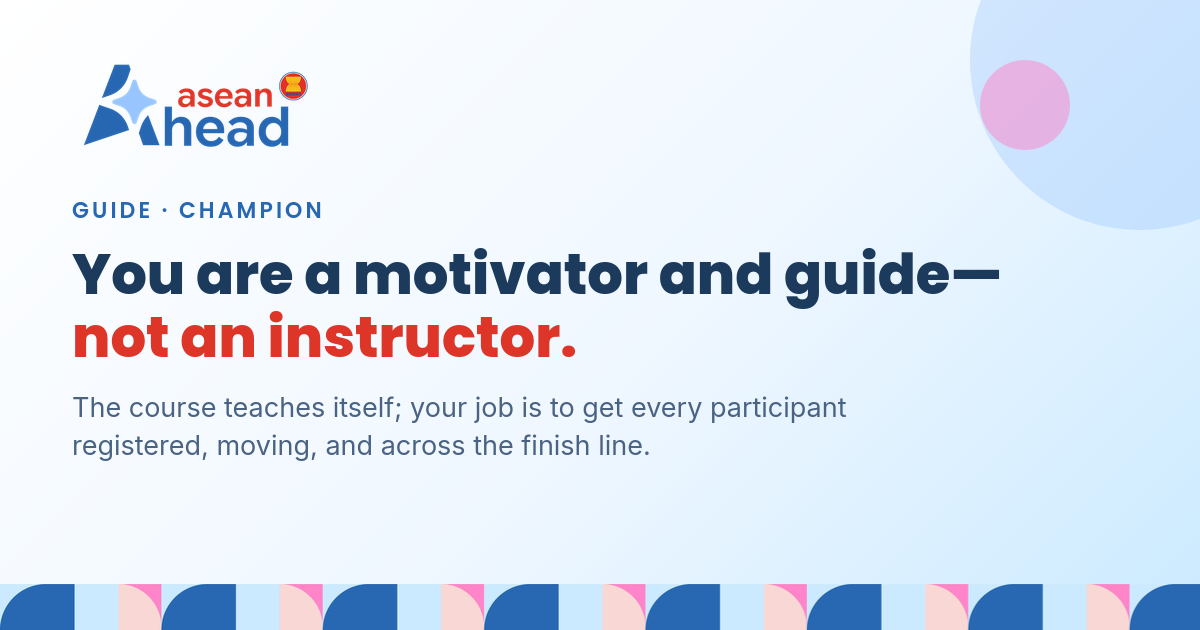
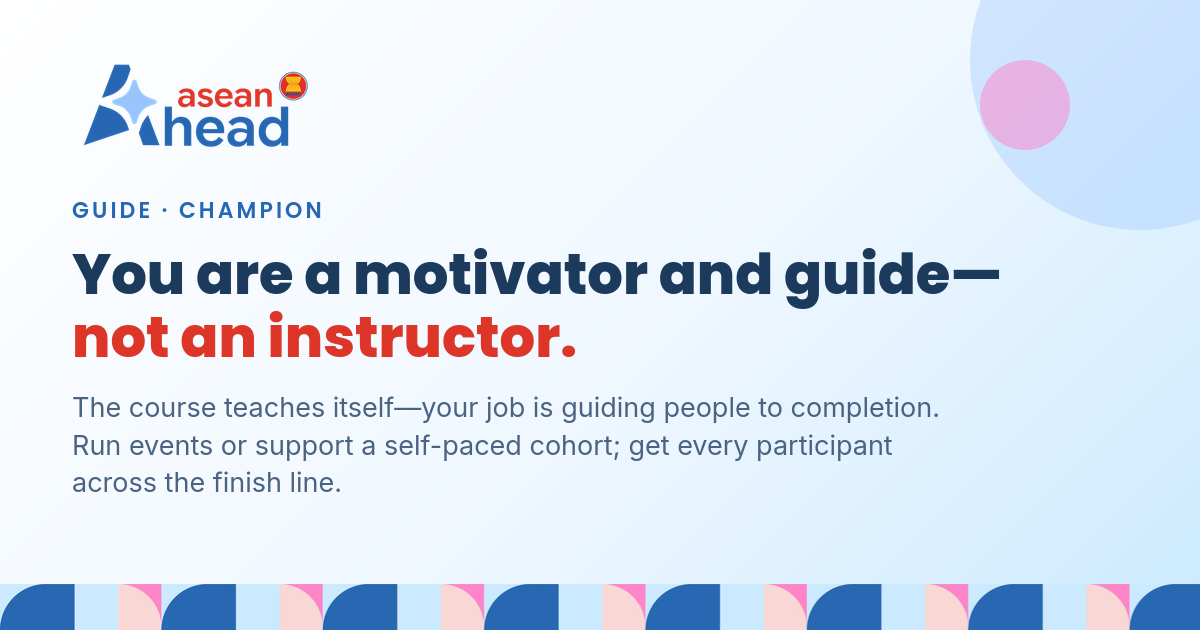
content: reframe Champions around guiding people to completion     - Lead the Champions page with completion, not events: new hero subhead,     completion-first 'owns' checklist, and a Pathways section presenting     cohort support and event-running as two peer routes     - Reword cohort support so 
- files affected
        - champions.html
        - event-types.html
        - faq.html
        - index.html
        - resources.html
        - static/assets/img/og/og-champions.png

Changed region(s): [[0.0617, 0.6333, 0.7708, 0.7238], [0.0617, 0.754, 0.2775, 0.7841]]

diff --git a/champions.html b/champions.html
@@ -4,12 +4,12 @@
 <meta charset="UTF-8">
 <meta name="viewport" content="width=device-width, initial-scale=1.0">
 <title>Champions—ASEAN AHEAD Guide</title>
-<meta name="description" content="Standard operating procedures for ASEAN AHEAD Champions: before, during, and after every event.">
+<meta name="description" content="The course teaches itself—your job is guiding people to completion. Run events or support a self-paced cohort; get every participant across the finish line.">
 <meta property="og:type" content="website">
 <meta property="og:site_name" content="ASEAN AHEAD Guide">
 <meta property="og:locale" content="en_PH">
 <meta property="og:title" content="Champions—ASEAN AHEAD Guide">
-<meta property="og:description" content="Standard operating procedures for ASEAN AHEAD Champions: before, during, and after every event.">
+<meta property="og:description" content="The course teaches itself—your job is guiding people to completion. Run events or support a self-paced cohort; get every participant across the finish line.">
 <meta property="og:url" content="https://asean-ahead-guide.bnhr.xyz/champions.html">
 <meta property="og:image" content="https://asean-ahead-guide.bnhr.xyz/static/assets/img/og/og-champions.png">
 <meta property="og:image:width" content="1200">
@@ -50,9 +50,10 @@
   <div class="wrap">
     <span class="kicker">Guide · Champion</span>
     <h1>You are a motivator and guide—not an instructor.</h1>
-    <p>The course teaches itself; your job is to get every participant registered,
-       moving, and across the finish line. <strong>This page is everything you're
-       accountable for before, during, and after an event.</strong></p>
+    <p>The course teaches itself—your job is the completion, not the event.
+       Whether you run sessions or support a self-paced cohort, you're accountable
+       for getting every participant registered, moving, and across the finish
+       line. <strong>This page is everything that takes, on both pathways.</strong></p>
   </div>
 </section>
 
@@ -63,10 +64,11 @@
     <p class="section-label" id="your-role">Your role</p>
     <h2 class="section-title">What a champion owns</h2>
     <ul class="checklist cobalt">
-      <li>Running the <strong>standard agenda</strong> at every event, in every mode</li>
+      <li><strong>Guiding every participant assigned to you to completion</strong>—the one outcome every other duty serves</li>
+      <li>Running <strong>your own <a href="event-types.html">events</a></strong></li>
       <li>Walking participants through <strong>ADA registration and enrollment</strong></li>
-      <li>Capturing the <strong>complete participant list</strong>.</li>
-      <li>Following up until every participant <strong>completes or the cohort deadline passes</strong></li>
+      <li>Capturing the <strong>complete participant list</strong></li>
+      <li>Following up until every participant <strong>completes</strong></li>
       <li>Submitting attendance, completions, and documentation to the <strong>Program Officer</strong></li>
     </ul>
     <div class="callout cobalt">
@@ -75,7 +77,7 @@
       guidelines, and get access to the templates and materials.
     </div>
     <div class="btn-row">
-      <a class="btn btn-primary" href="https://forms.gle/2UvTiwWNy5bXKzNi9" target="_blank" rel="noopener" data-tooltip="Be part of our cohort of Champions and support events online or near you.">Sign up to be a Champion</a>
+      <a class="btn btn-primary" href="https://forms.gle/2UvTiwWNy5bXKzNi9" target="_blank" rel="noopener" data-tooltip="Be part of our cohort of Champions and guide learners to completion—online or near you.">Sign up to be a Champion</a>
       <a class="btn btn-ghost-1" href="partners.html" data-tooltip="Learn how to host and lead your own events.">Partner to host your own events</a>
     </div>
   </div>
@@ -83,12 +85,39 @@
 
 <section>
   <div class="wrap">
-    <p class="section-label" id="support-a-cohort">Support a cohort</p>
+    <p class="section-label" id="pathways">Pathways</p>
+    <h2 class="section-title">Two ways to land completions</h2>
+    <p class="prose" style="margin-bottom:1.2rem">
+      Completions are the outcome; how you get there is up to you. Champions
+      work through two pathways—many do both.
+    </p>
+    <div class="card-grid">
+      <a class="card" href="#support-a-cohort">
+        <span class="chip chip-facilitators">Support a cohort</span>
+        <h3>Adopt self-paced learners</h3>
+        <p>Take on an assigned cohort of participants who started the course but
+           stalled, and see them through to the finish line—no event required.</p>
+        <span class="card-cta">How cohort support works →</span>
+      </a>
+      <a class="card" href="#delivery-modes">
+        <span class="chip chip-facilitators">Run events</span>
+        <h3>Take a room through the course</h3>
+        <p>Run the standard agenda—synchronous or asynchronous—and stay with your
+           participants until every one of them completes.</p>
+        <span class="card-cta">The event playbook →</span>
+      </a>
+    </div>
+  </div>
+</section>
+
+<section>
+  <div class="wrap">
+    <p class="section-label" id="support-a-cohort">Pathway · Support a cohort</p>
     <h2 class="section-title">Adopt learners who stalled—and earn when they finish</h2>
     <p class="prose" style="margin-bottom:1.2rem">
-      Beyond running events, Champions can <strong>opt in</strong> to support an
-      assigned cohort of participants who started the course but haven't
-      finished. Here's how it works, step by step:
+      You don't need to run an event to land completions. Champions can
+      <strong>opt in</strong> to support an assigned cohort of participants who
+      started the course but haven't finished. Here's how it works, step by step:
     </p>
     <ol class="steps">
       <li>
@@ -122,7 +151,7 @@
 
 <section>
   <div class="wrap">
-    <p class="section-label" id="delivery-modes">Delivery modes</p>
+    <p class="section-label" id="delivery-modes">Pathway · Run events · Delivery modes</p>
     <h2 class="section-title">Synchronous or asynchronous—know the rule for each</h2>
     <div class="card-grid">
       <a class="card" href="delivery-modes/synchronous.html">
@@ -155,16 +184,19 @@
 
 <section>
   <div class="wrap">
-    <p class="section-label" id="run-of-show">Run of show</p>
-    <h2 class="section-title">The standard synchronous agenda</h2>
+    <p class="section-label" id="run-of-show">Pathway · Run events · Run of show</p>
+    <h2 class="section-title">The standard synchronous agenda (Hard Launch event)</h2>
     <p class="prose" style="margin-bottom:1.2rem">
-      Every synchronous event runs in <strong>two parts</strong>. Part 1 takes
-      everyone from registration through Module 1—after that, participants may
-      opt to finish the rest asynchronously. Part 2 continues live all the way to
-      full completion of the course. Adjust the buffer, not the structure.
-      Budget generously.
+      Run end to end, this agenda <strong>is</strong>
+      <a href="event-types.html#hard-launch">The Hard Launch</a>—the complete
+      guided run. It runs in <strong>two parts</strong>. Part 1 takes everyone
+      from registration through Module 1; run on its own, Part 1 is
+      <a href="event-types.html#soft-launch">The Soft Launch</a>, and
+      participants who leave there finish the rest asynchronously. Part 2
+      continues live all the way to full completion of the course. Adjust the
+      buffer, not the structure. Budget generously.
     </p>
-    <h3 class="part-title">Part 1—Registration through Module 1</h3>
+    <h3 class="part-title">Part 1—Registration through Module 1 (on its own: The Soft Launch)</h3>
     <div class="table-scroll">
       <table>
         <thead>
@@ -204,7 +236,7 @@
 
 <section>
   <div class="wrap">
-    <p class="section-label" id="lifecycle">Lifecycle</p>
+    <p class="section-label" id="lifecycle">Pathway · Run events · Lifecycle</p>
     <h2 class="section-title">Before · During · After</h2>
     <ol class="steps">
       <li>
@@ -227,7 +259,8 @@
            post-event report. SmartCT counter-checks your sheet against the ADA
            record and sends back a sanitized completion tracker—work from that to
            nudge weekly, and escalate persistent drop-offs to the Program
-           Officer.</p>
+           Officer. <strong>The event isn't over until every participant has
+           completed or the cohort window has closed.</strong></p>
       </li>
     </ol>
   </div>
@@ -235,7 +268,7 @@
 
 <section>
   <div class="wrap">
-    <p class="section-label" id="facilitator-checklist">Facilitator checklist</p>
+    <p class="section-label" id="facilitator-checklist">Pathway · Run events · Checklist</p>
     <h2 class="section-title">What to prepare, what to submit</h2>
     <p class="prose" style="margin-bottom:1.2rem">
       There is one form you must produce for every event and one short report
@@ -282,6 +315,43 @@
       is the one deliverable everything else depends on—it is what ties a
       completion on ADA back to your event, and therefore what credits the work
       to you. Submit it even if the event was small or attendance was low.
+    </div>
+  </div>
+</section>
+
+<section>
+  <div class="wrap">
+    <p class="section-label" id="get-started">Get started</p>
+    <h2 class="section-title">From completer to Champion</h2>
+    <ol class="steps">
+      <li>
+        <strong>Finish the course yourself</strong>
+        <p>Every Champion is a completer first—you'll be guiding people through
+           something you've already done.</p>
+      </li>
+      <li>
+        <strong>Sign up and get onboarded</strong>
+        <p>Register through the Champion form, complete the Champion's
+           orientation, and commit to the data privacy and safeguarding
+           guidelines.</p>
+      </li>
+      <li>
+        <strong>Pick your pathway</strong>
+        <p>Tell the Program Officer whether you want an
+           <a href="#support-a-cohort">assigned cohort</a>, an
+           <a href="#delivery-modes">event to run</a>, or both—and get access
+           to the templates and materials.</p>
+      </li>
+      <li>
+        <strong>Start landing completions</strong>
+        <p>Everything you're accountable for is on this page; the scripts,
+           sheets, and decks live on the
+           <a href="resources.html#templates">Resources page</a>.</p>
+      </li>
+    </ol>
+    <div class="btn-row">
+      <a class="btn btn-primary" href="https://forms.gle/2UvTiwWNy5bXKzNi9" target="_blank" rel="noopener" data-tooltip="Be part of our cohort of Champions and guide learners to completion—online or near you.">Sign up to be a Champion</a>
+      <a class="btn btn-ghost-1" href="resources.html#templates" data-tooltip="Registration sheets, nudge scripts, decks, and report templates.">Browse the templates</a>
     </div>
   </div>
 </section>

diff --git a/event-types.html b/event-types.html
@@ -141,8 +141,11 @@
     <div class="callout gold">
       <strong>How it's different:</strong> it's the only event type where you
       arrive unregistered and leave a completer. Every other type covers a
-      slice of the journey; the Full Send covers all of it—plus added-value
-      segments the platform can't give you.
+      slice of the journey; the Hard Launch covers all of it—plus added-value
+      segments the platform can't give you. It is the
+      <a href="champions.html#run-of-show">standard synchronous agenda</a> run
+      end to end, and its Part 1, taken on its own, is
+      <a href="#soft-launch">The Soft Launch</a>.
     </div>
     <div class="callout teal" style="margin-top:1.2rem">
       <strong>Example:</strong> a Saturday morning campus session—course
@@ -171,7 +174,9 @@
       <strong>How it's different:</strong> it's the lowest-commitment entry
       point. You don't finish the course here—you get launched into it, with
       Module 1 done and a champion following up until you complete the rest
-      on your own pace.
+      on your own pace. Structurally, it is Part 1 of
+      <a href="#hard-launch">The Hard Launch</a>: the same agenda up to the
+      exit point, then self-paced from there.
     </div>
     <div class="callout teal" style="margin-top:1.2rem">
       <strong>Example:</strong> a 30-minute lunch-break webinar for a student

diff --git a/index.html b/index.html
@@ -74,9 +74,9 @@
     <div class="card-grid">
       <a class="card" href="champions.html">
         <span class="chip chip-facilitators">Champion</span>
-        <h3>I run events</h3>
-        <p>The standard agenda, ADA onboarding walkthrough, completion follow-up,
-           and everything you're accountable for before, during, and after an event.</p>
+        <h3>I guide people to completion</h3>
+        <p>Two pathways to the finish line—run events or support a self-paced
+           cohort—with the standard agenda, ADA onboarding, and follow-up playbooks.</p>
         <span class="card-cta">Read the Champion's Guide →</span>
       </a>
       <a class="card" href="participants.html">
@@ -229,8 +229,9 @@
       <a class="card" href="champions.html">
         <span class="chip chip-facilitators">Open to all completers</span>
         <h3>Become a Champion</h3>
-        <p>Run your own events and bring the course to your school,
-           barangay, or organization. Every completer can step up.</p>
+        <p>Guide learners to completion—support a self-paced cohort or run
+           events at your school, barangay, or organization. Every completer
+           can step up.</p>
         <span class="card-cta">Read the Champion's Guide →</span>
       </a>
     </div>

diff --git a/faq.html b/faq.html
@@ -166,6 +166,15 @@
     </details>
 
     <details class="faq-item" data-audience="facilitators">
+      <summary><span><span class="tag chip-facilitators">Champions</span>Do I have to run events to be a Champion?</span></summary>
+      <div class="faq-body">No. Running events is one of two pathways. The other
+        is supporting an assigned cohort: SmartCT hands you a batch of self-paced
+        participants who started but stalled, and you guide them to completion
+        with check-ins and follow-ups—no event required. See
+        <a href="champions.html#support-a-cohort">how cohort support works</a>.</div>
+    </details>
+
+    <details class="faq-item" data-audience="facilitators">
       <summary><span><span class="tag chip-facilitators">Champions</span>What's the difference between a synchronous and asynchronous event?</span></summary>
       <div class="faq-body">Synchronous (in-person, webinar, or hybrid): the entire
         course is completed together during the event. Asynchronous: the event

diff --git a/resources.html b/resources.html
@@ -173,7 +173,7 @@
     </p>
     <div class="btn-row" style="margin-bottom:1.6rem">
       <a class="btn btn-primary" href="https://forms.gle/5CYH2NmZv1SJ5UKb7" target="_blank" rel="noopener" data-tooltip="Tell us about your institution or community and the event you want to host.">Register as a partner</a>
-      <a class="btn btn-ghost-2" href="https://forms.gle/2UvTiwWNy5bXKzNi9" target="_blank" rel="noopener" data-tooltip="Be part of our cohort of Champions and support events online or near you.">Sign up to be a Champion</a>
+      <a class="btn btn-ghost-2" href="https://forms.gle/2UvTiwWNy5bXKzNi9" target="_blank" rel="noopener" data-tooltip="Be part of our cohort of Champions and guide learners to completion—online or near you.">Sign up to be a Champion</a>
     </div>
     <div class="callout gold">
       <strong>Guide versioning:</strong> this website is the living version of the
